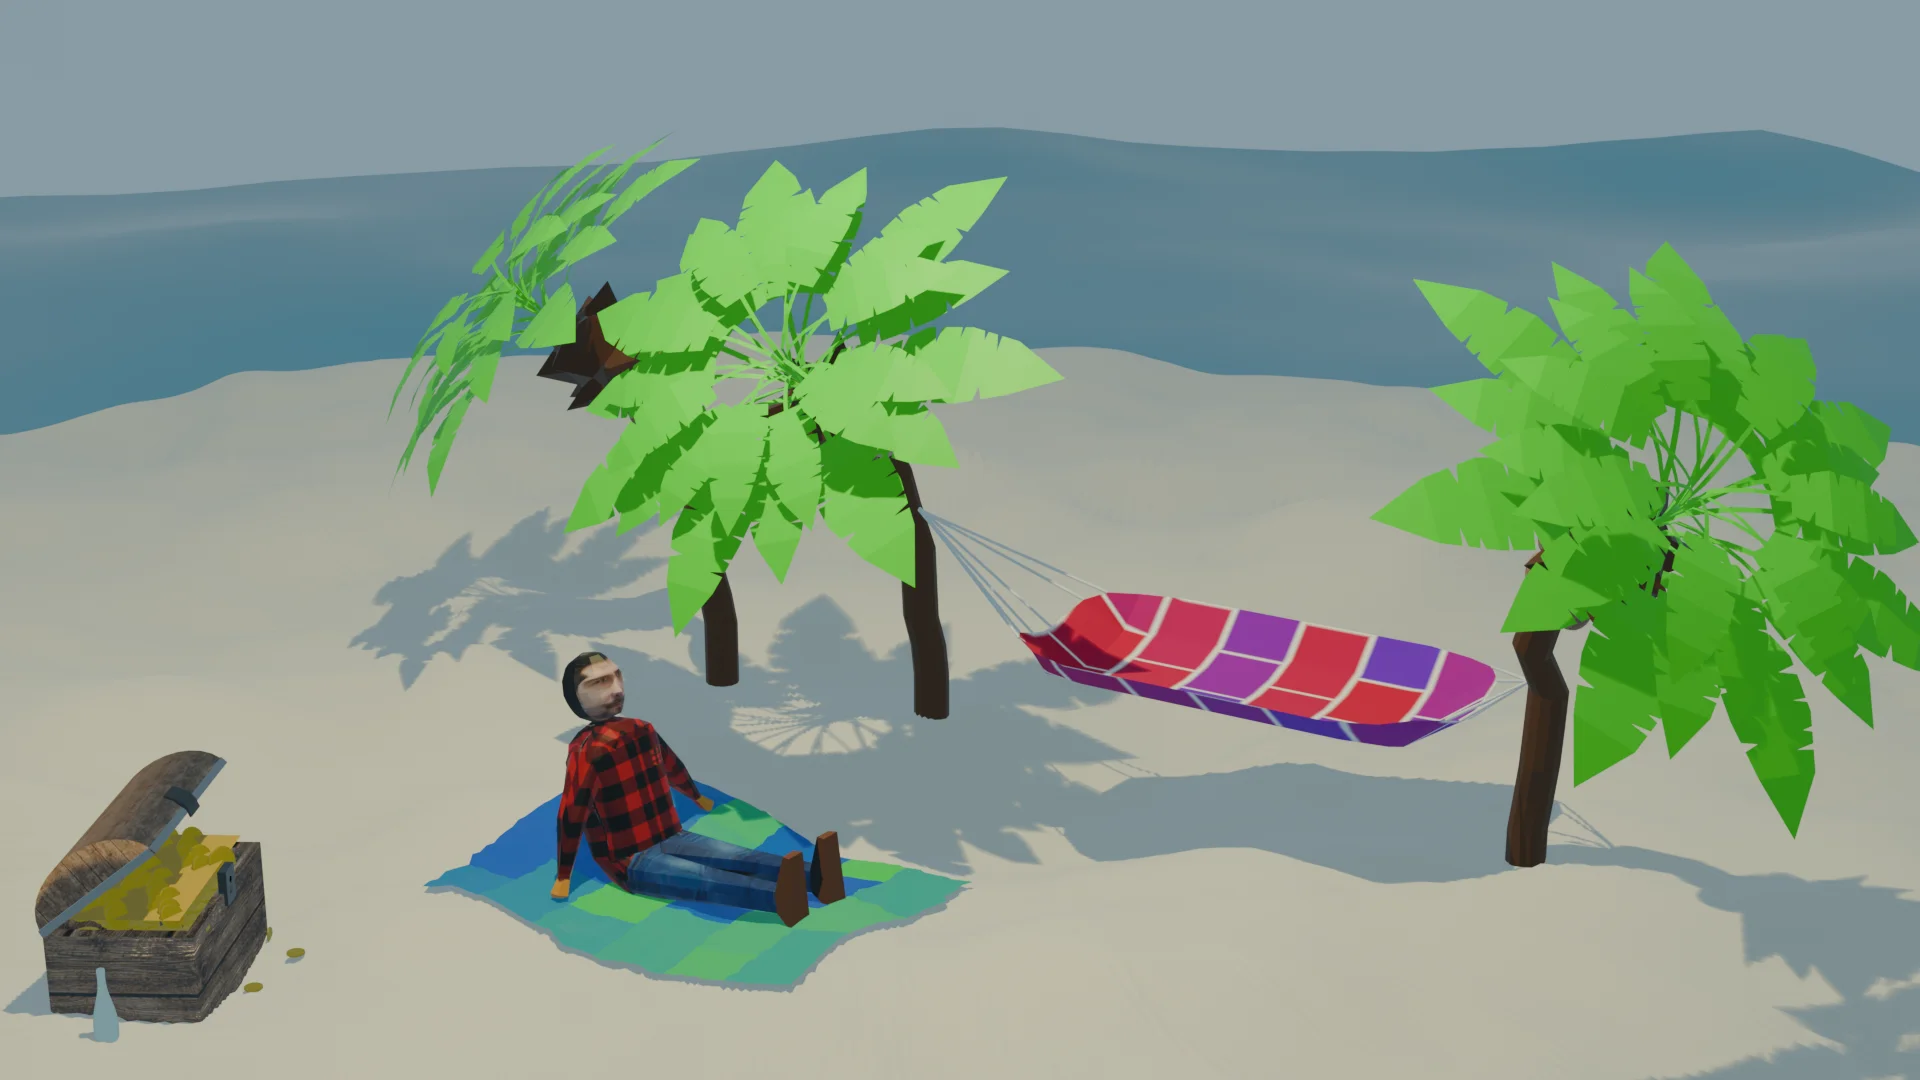
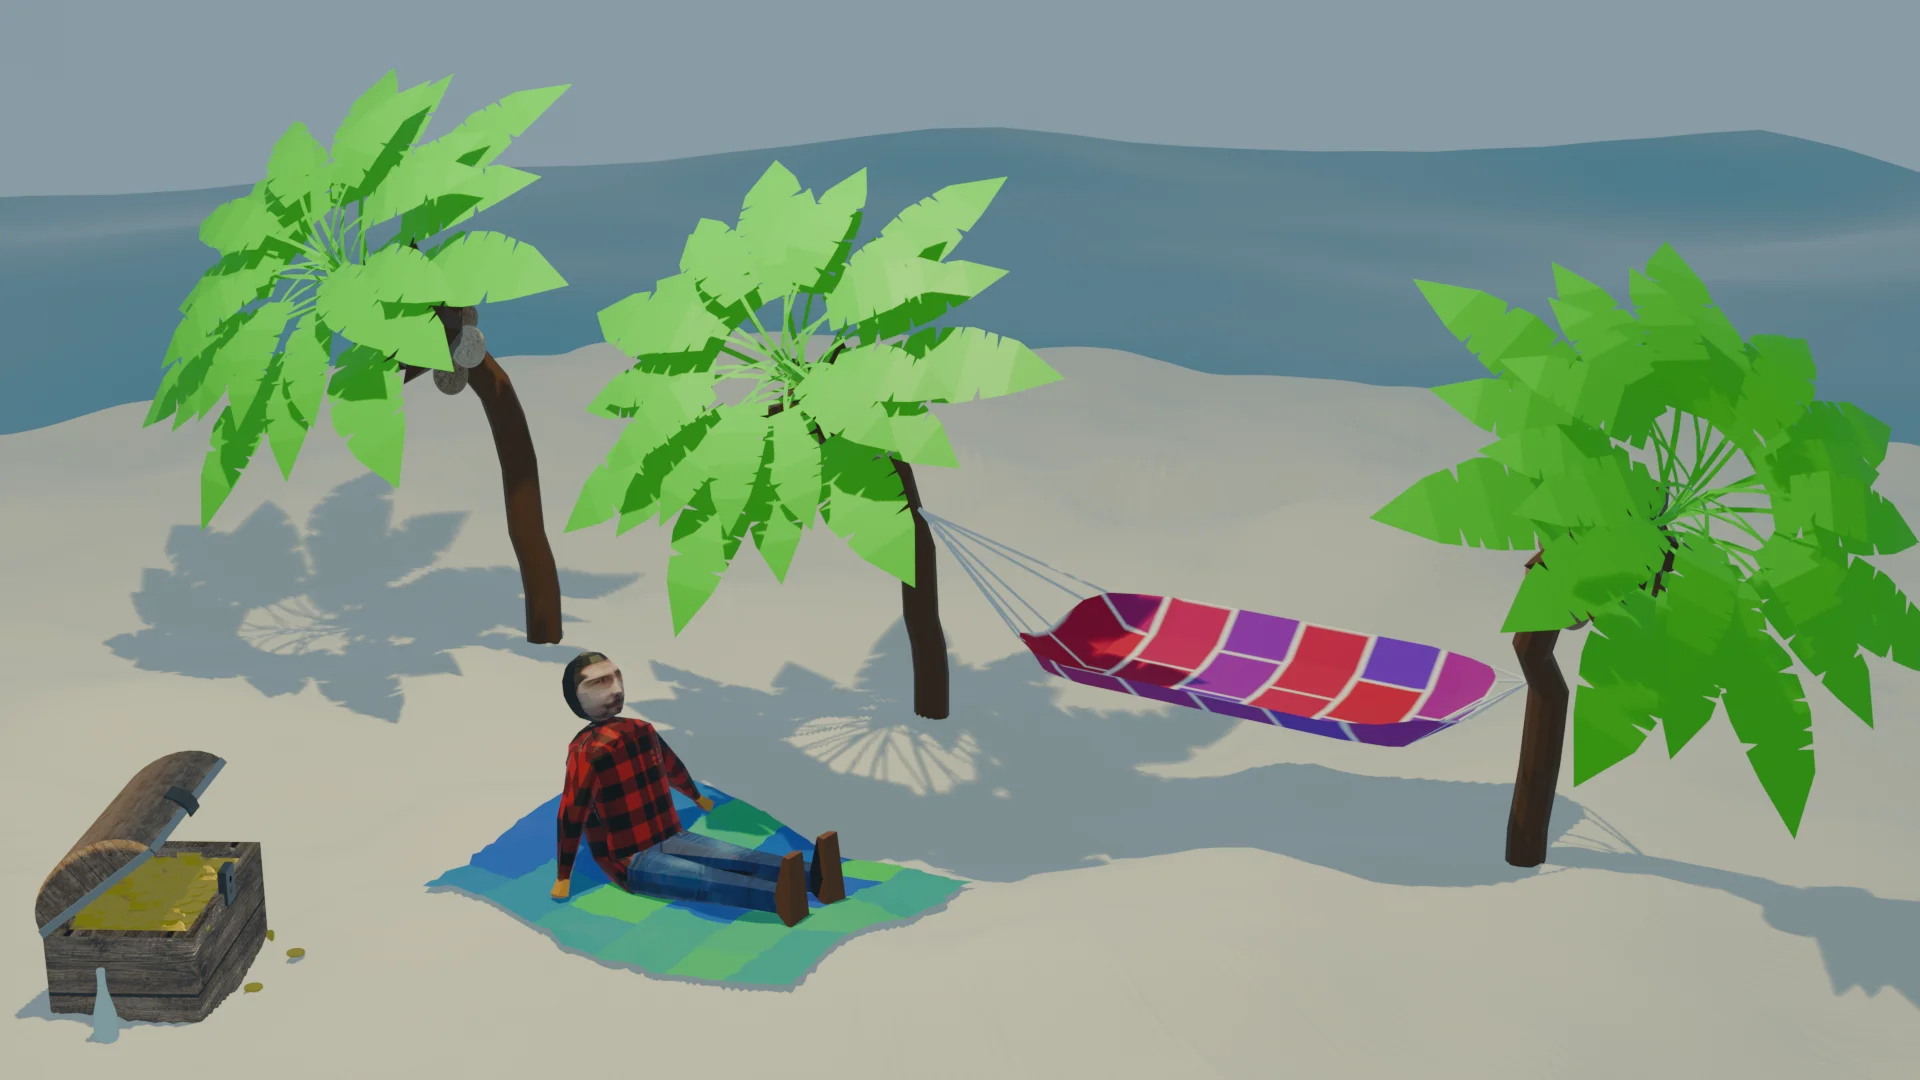
Auto-generated commit

diff --git a/404.html b/404.html
@@ -25,5 +25,5 @@
 
     <body>
         <app-root></app-root>
-    <script src="polyfills-B6TNHZQ6.js" type="module"></script><script src="main-MCIUDYJJ.js" type="module"></script></body>
+    <script src="polyfills-B6TNHZQ6.js" type="module"></script><script src="main-D7DTIMAL.js" type="module"></script></body>
 </html>

diff --git a/index.html b/index.html
@@ -25,5 +25,5 @@
 
     <body>
         <app-root></app-root>
-    <script src="polyfills-B6TNHZQ6.js" type="module"></script><script src="main-MCIUDYJJ.js" type="module"></script></body>
+    <script src="polyfills-B6TNHZQ6.js" type="module"></script><script src="main-D7DTIMAL.js" type="module"></script></body>
 </html>